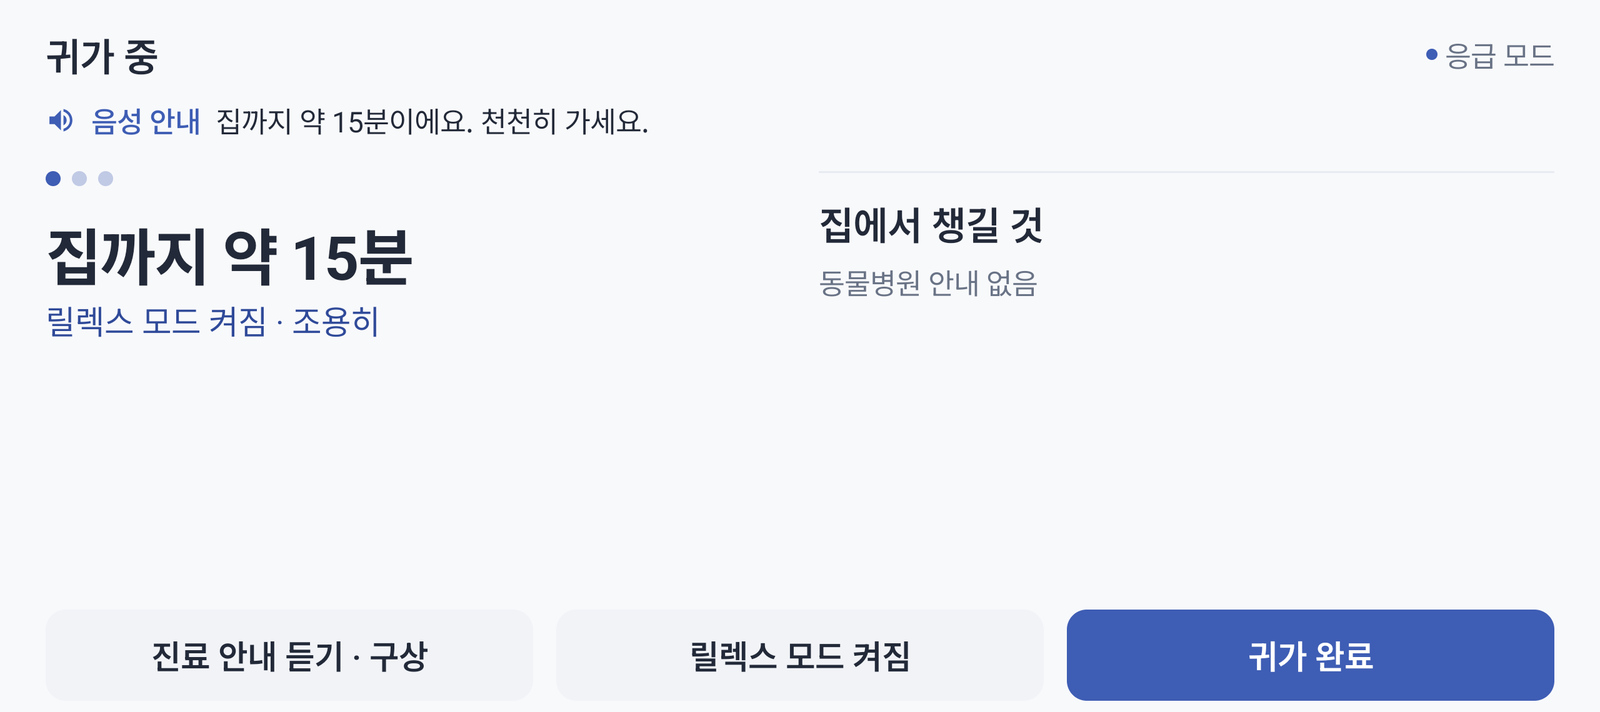
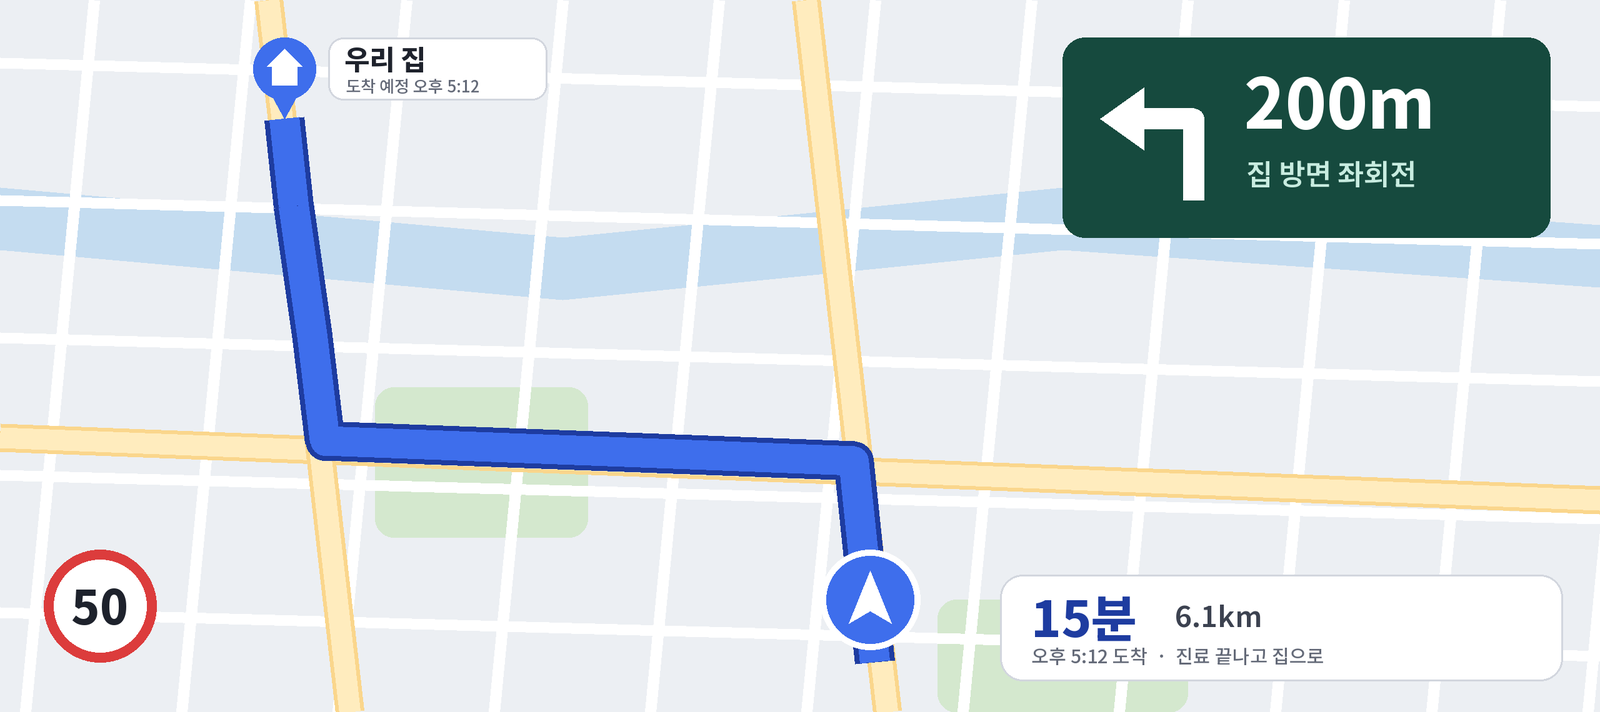
docs(readme): 귀가 중 화면을 집으로 가는 길 안내 화면으로 바꿈

diff --git a/README.md b/README.md
@@ -55,7 +55,7 @@
 | **출발 확인** | **병원으로 이동 중** |
 | <img src="docs/readme/06-depart.png" alt="출발 확인" width="480"> | <img src="docs/readme/07-trip.png" alt="병원으로 이동 중" width="480"> |
 | **진료 완료** | **귀가 중** |
-| <img src="docs/readme/09-after.png" alt="진료 완료" width="480"> | <img src="docs/readme/10-going-home.png" alt="귀가 중" width="480"> |
+| <img src="docs/readme/09-after.png" alt="진료 완료" width="480"> | <img src="docs/readme/10-going-home.png" alt="귀가 중: 집까지 길 안내" width="480"> |
 | **귀가 완료** | **반려동물 카드** |
 | <img src="docs/readme/11-home-arrived.png" alt="귀가 완료" width="480"> | <img src="docs/readme/12-pet-card.png" alt="반려동물 카드" width="480"> |
 | **릴렉스 모드** | |
